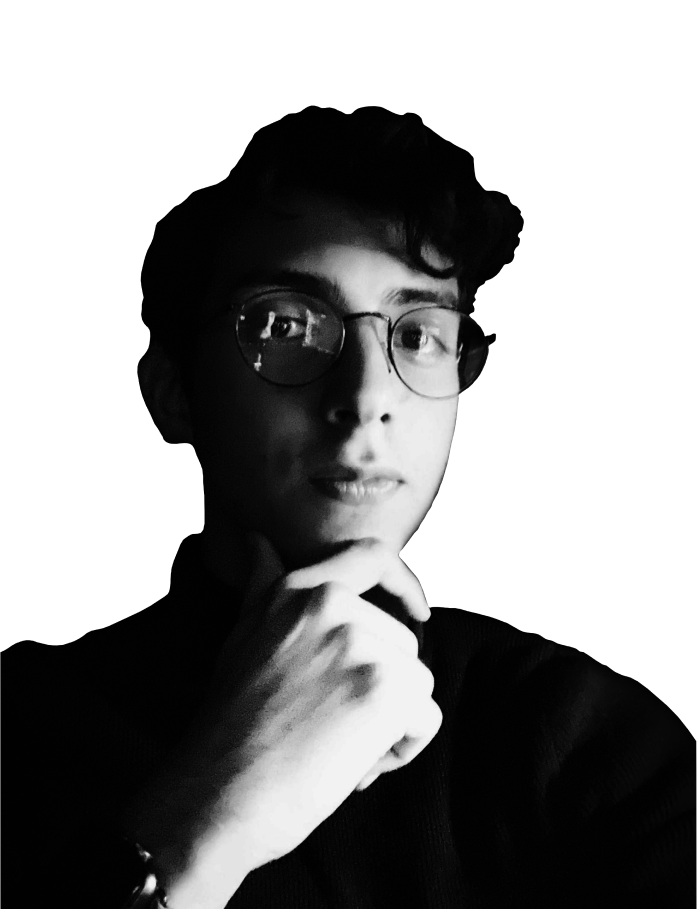
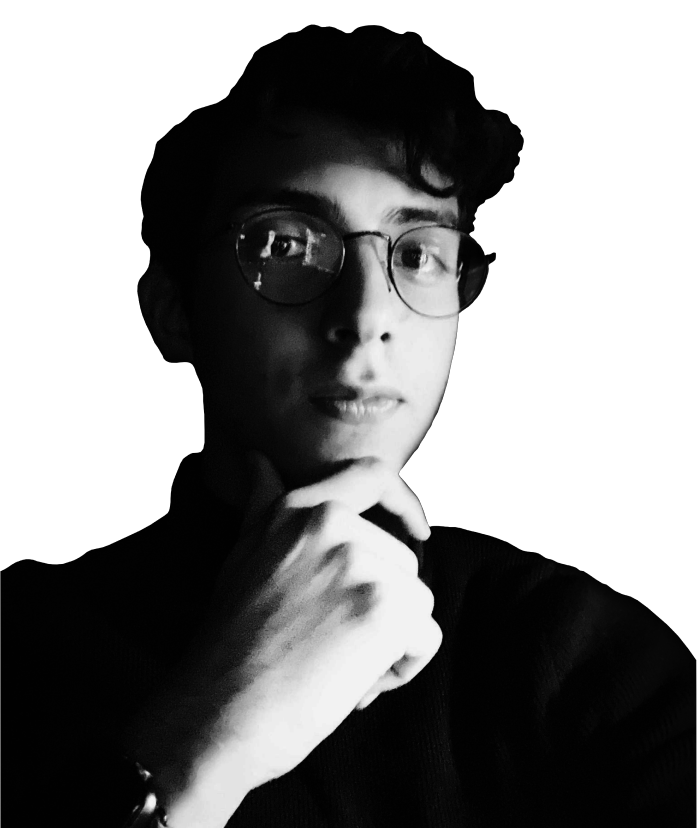
Major update
- Reconstruction of classes for better usability and comprehensibility

Changed region(s): [[0.0, 0.0302, 1.0, 0.936], [0.3615, 0.9058, 0.4519, 0.9662], [0.1808, 0.936, 0.2712, 0.9964]]

diff --git a/index.html b/index.html
@@ -6,10 +6,8 @@
     <link rel="stylesheet" href="./css/index.css">
 
     <link rel="preconnect" href="https://fonts.googleapis.com">
-    <link rel="preconnect" href="https://fonts.gstatic.com" crossorigin>
-    <link href="https://fonts.googleapis.com/css2?family=Poppins:wght@500&display=swap" rel="stylesheet"> <!-- Poppins -->
-    <link href="https://fonts.googleapis.com/css2?family=Inter:wght@100&display=swap" rel="stylesheet"> <!-- Inter -->
-    <link href="https://fonts.googleapis.com/css2?family=Noto+Serif+Display&display=swap" rel="stylesheet"> <!-- Noto Serif -->
+    <link rel="preconnect" href="https://fonts.gstatic.com" crossorigin><!-- Inter -->
+    <link href="https://fonts.googleapis.com/css2?family=Inter:wght@100;200;300;400;500;600;700;800;900&display=swap" rel="stylesheet">  <!-- Inter -->
 
     <title>My Portfolio - Eduardo Miguel Bennaton</title>
 </head>
@@ -17,10 +15,10 @@
     <div class="container" style="user-select: none;">
         <section class="one">
             <img src="./assets/Fancy-me 2.png" alt="" class="my-image" draggable="false">
-            <div class="text-container" style="width: 40%; margin-left: 40%; margin-bottom: 15%; position: static; z-index: 1;"> 
+            <div class="text-container introductory-container"> 
                 <div class="heading-container">
-                    <h1 class="heading">Eduardo Bennaton</h1>
-                    <h2 class="sub-heading">welcome to my portfolio.</h2>
+                    <h1>Eduardo Bennaton</h1>
+                    <h2>Software Engineer</h2>
                 </div>
                 <div class="paragraph-container" style="gap: 20px; width: 100%; padding-top: 10%;">
                     <div style="display: flex; flex-direction: column; width: 70%;">
@@ -134,7 +132,7 @@
         <section class="four">
             <div class="text-container" style="margin-left: 7%; gap: 70px; width: 66%; height: 100%;">
                 <div class="experience">
-                    <h6>Experience</h6>
+                    <!-- <h6>Experience</h6> -->
                     <p class="quote">"Knowledge is power"</p>
                     <p class="author">- Francis Bacon</p>
                 </div>

diff --git a/css/index.css b/css/index.css
@@ -2,24 +2,61 @@ html {
     overflow-x: hidden;
 }
 
-p{
-    user-select: none;
-    color: #606060;
-    font-family: 'Inter', sans-serif;
-    font-size: 17px;
-    font-weight: 500;
-    line-height: normal;
-    font-style: normal;
-}
-
-.bold{
-    font-weight: 800;
-}
-
 * {
     margin: 0;
     padding: 0;
     box-sizing: border-box;
+}
+
+:root{
+    --highlight-color-1: #EA5838;
+}
+
+
+p, .small-text{
+    font-family: 'Inter', sans-serif;
+    font-size: 18px;
+    line-height: normal;
+    font-style: normal;
+    user-select: none;
+}
+
+p{
+    color: #606060;
+    font-weight: 500;
+}
+
+.small-text{
+    color: rgba(255, 255, 255, 0.815);
+    font-weight: 400;
+}
+
+h1{
+    user-select: none;
+    font-family: 'Inter', sans-serif;
+    font-weight: 700;
+    font-size: 70px;
+    color: white;
+}
+
+h2{
+    user-select: none;
+    font-family: 'Inter', sans-serif;
+    font-weight: 700;
+    font-size: 35px;
+    color: var(--highlight-color-1);
+}
+
+h3{
+    user-select: none;
+    font-family: 'Inter', sans-serif;
+    font-weight: 500;
+    font-size: 25px;
+    color: white;
+}
+
+.bold{
+    font-weight: 800;
 }
 
 /* .container{
@@ -42,8 +79,8 @@ section{
 
 .my-image{
     position: absolute;
-    left: 7%;
-    bottom: 6%;
+    left: 10px;
+    bottom: 9vh;
 }
 
 .text-container{
@@ -51,32 +88,17 @@ section{
     flex-direction: column;
 }
 
-.heading{
-    user-select: none;
-    font-family: 'Poppins', sans-serif;
-    font-weight: 500;
-    font-size: 70px;
-    color: white;
-}
-
-.sub-heading{
-    user-select: none;
-    font-family: 'Poppins', sans-serif;
-    font-weight: 500;
-    font-size: 25px;
-    color: white;
+.introductory-container{
+    width: 40%; 
+    margin-left: 40%;
+    margin-bottom: 15%;
+    position: static; 
+    z-index: 1;
 }
 
 .paragraph-container{
     display: flex;
     flex-direction: row;
-}
-
-.small-text{
-    color: rgba(255, 255, 255, 0.815);
-    font-family: 'Poppins', sans-serif;
-    font-weight: 100;
-    font-size: 12px;
 }
 
 /* FOR TWO */
